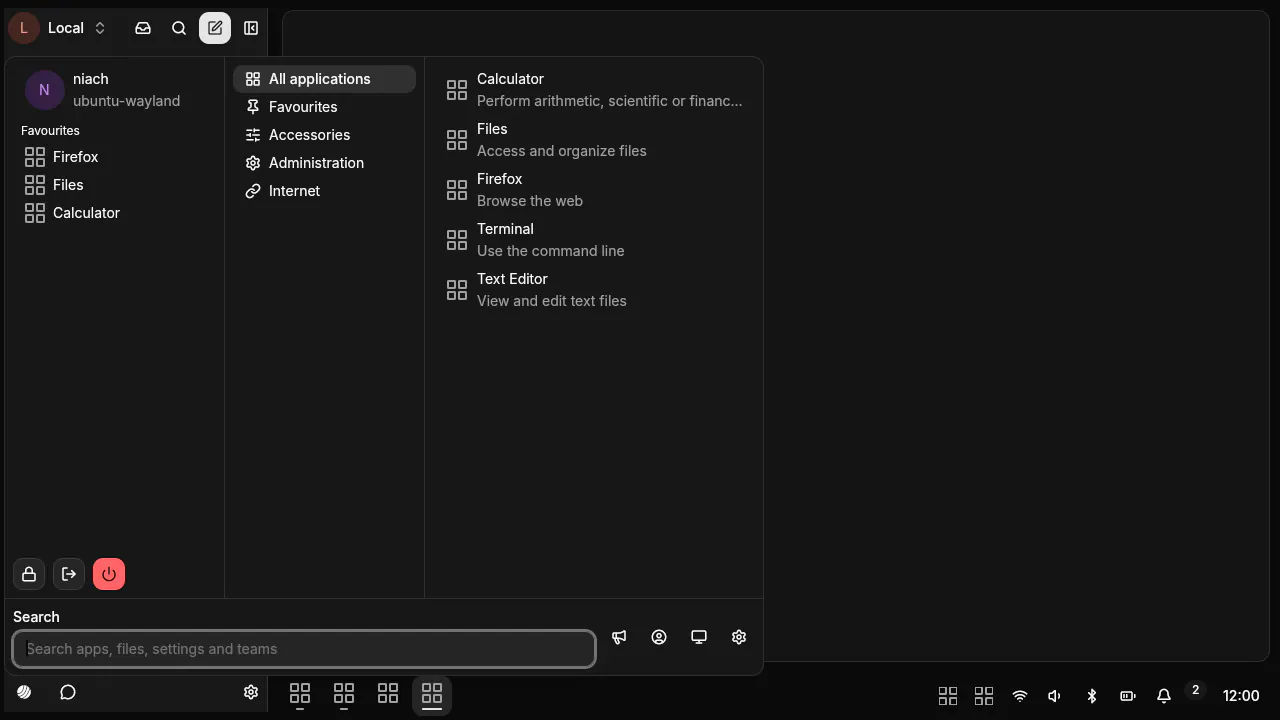
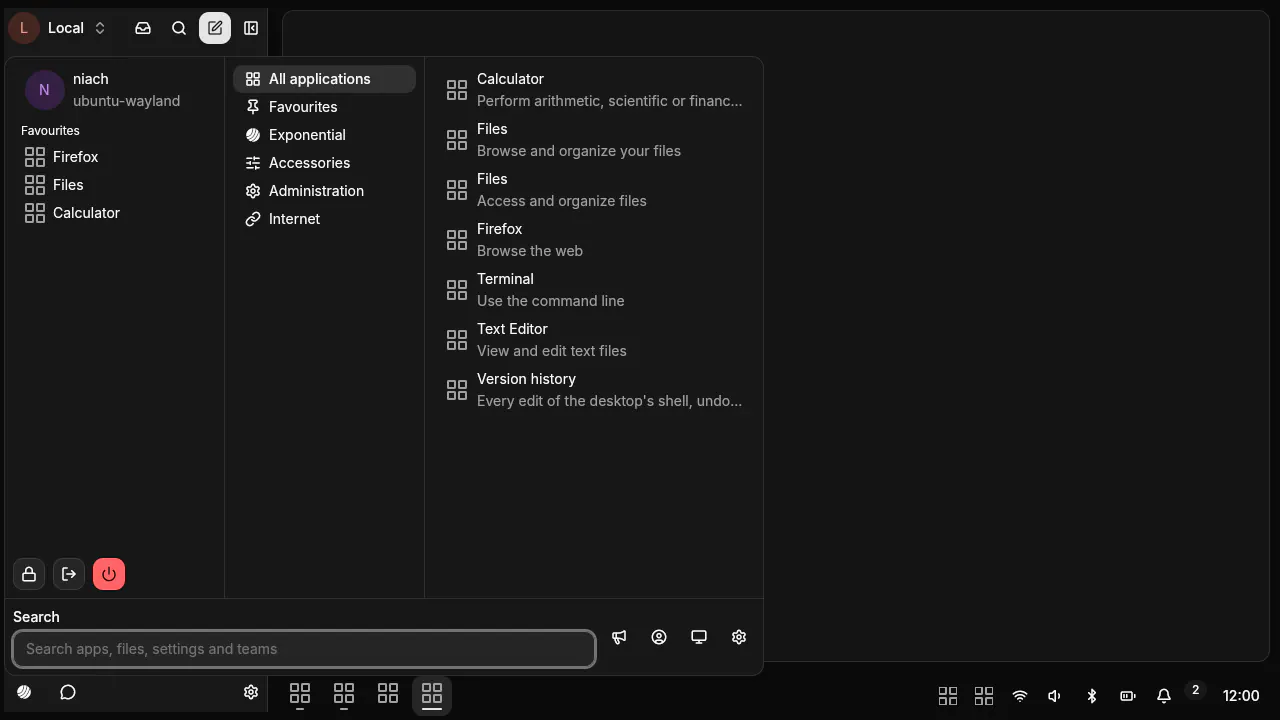
EDE-49/53: Expo and Scale overlays with live thumbnails per workspace, Version history as a start-menu app, Files (Nemo, else the default file manager)
expo.json (Ctrl+Alt+Up: one tile per workspace, the active one outlined, a
tile switches, a thumbnail focuses) and scale.json (Ctrl+Alt+Down: the active
workspace's windows with a title chip and a close badge); history.json (the
shell documents' commits from exponential-ui's log, Undo and Reset to
factory through ede.history). The start menu's own entries: Files
(at.exponential.files) and Version history (at.exponential.history, a
document rather than a process). /expo, /scale and /history feed them;
views ede-expo, ede-scale, ede-history with goldens; the start-menu golden
gains the two entries.

Changed region(s): [[0.3438, 0.2444, 0.5625, 0.5806], [0.1875, 0.1833, 0.2812, 0.3056], [0.375, 0.1833, 0.5312, 0.2139]]

diff --git a/apps/styleguide/src/entries/ede-panel.tsx b/apps/styleguide/src/entries/ede-panel.tsx
@@ -6,6 +6,9 @@ import sidebar from "../../../ede/ui/sidebar.json"
 import taskbar from "../../../ede/ui/taskbar.json"
 import startMenu from "../../../ede/ui/start-menu.json"
 import chat from "../../../ede/ui/chat.json"
+import expo from "../../../ede/ui/expo.json"
+import scale from "../../../ede/ui/scale.json"
+import history from "../../../ede/ui/history.json"
 import switcher from "../../../ede/ui/switcher.json"
 import osd from "../../../ede/ui/osd.json"
 import notifications from "../../../ede/ui/notifications.json"
@@ -27,6 +30,9 @@ const SIDEBAR = sidebar as unknown as { root: NestedNode }
 const TASKBAR = taskbar as unknown as { root: NestedNode; data: Record<string, unknown> }
 const START_MENU = startMenu as unknown as { root: NestedNode }
 const CHAT = chat as unknown as { root: NestedNode }
+const EXPO = expo as unknown as { root: NestedNode }
+const SCALE = scale as unknown as { root: NestedNode }
+const HISTORY = history as unknown as { root: NestedNode }
 const SWITCHER = switcher as unknown as { root: NestedNode }
 const OSD = osd as unknown as { root: NestedNode }
 const NOTIFICATIONS = notifications as unknown as { root: NestedNode }
@@ -84,6 +90,16 @@ const SAMPLE_SHELL = {
   chat: { open: false },
   altTab: { open: false, selected: 0, order: [] },
 }
+const SAMPLE_EXPO = { workspaces: [
+  { index: 0, label: `Workspace 1`, active: true, count: 3, countText: `3`, windows: [{ id: `w1`, title: `Firefox`, focused: false, thumbnail: `` }, { id: `w2`, title: `Terminal`, focused: true, thumbnail: `` }, { id: `w3`, title: `Files`, focused: false, thumbnail: `` }] },
+  { index: 1, label: `Workspace 2`, active: false, count: 1, countText: `1`, windows: [{ id: `w4`, title: `Exponential — Firefox`, focused: false, thumbnail: `` }] },
+] }
+const SAMPLE_SCALE = { label: `Workspace 1`, windows: SAMPLE_EXPO.workspaces[0].windows }
+const SAMPLE_HISTORY = { entries: [
+  { id: `a1b2c3d4e5`, short: `a1b2c3d`, summary: `Edit taskbar.json`, at: `2026-11-06 11:58` },
+  { id: `f6a7b8c9d0`, short: `f6a7b8c`, summary: `Edit sidebar.json`, at: `2026-11-06 11:40` },
+  { id: `0f1e2d3c4b`, short: `0f1e2d3`, summary: `Factory sidebar.json`, at: `2026-11-06 09:00` },
+] }
 const SAMPLE_SWITCHER = { windows: [
   { id: `w1`, title: `Firefox`, selected: false, thumbnail: `` },
   { id: `w2`, title: `Terminal`, selected: true, thumbnail: `` },
@@ -95,7 +111,7 @@ export const entry: StyleguideEntry = {
   section: `special`,
   owner: `EDE-42`,
   title: `Exponential Desktop shell`,
-  blurb: `The desktop environment's factory shell documents, the IDE look (#EDE-42): the ground (apps/ede/ui/ground.json: the IDE's gradient and the rounded panel the focused window sits on), the sidebar (sidebar.json: the desktop/team switcher, inbox, search, new, the nav Needs you + Chats, the Pinned / Workspaces / Active sections, the Exponential start button and the chat button bottom-left; 272 px, or the 56 px icon rail), Mint's taskbar (taskbar.json: icon-only grouped buttons with pins, hover previews and a context menu, the applets, the bell and the clock at the right), the start menu (start-menu.json: the person and the favourites with lock / log out / power, the categories, the app rows, the search box), the chat (chat.json: the Assistant's composer), the Alt+Tab switcher (switcher.json, an on-demand overlay with live thumbnails), the OSD (osd.json, the media keys' level), the toasts of the shell's own notification server (notifications.json), the bell's notification centre (notification-center.json), a tray item's dbusmenu (tray-menu.json) and the settings surface (settings.json, a page per domain over exponential-services). Agents and people edit these files; exponential-ui validates, commits and rolls back (packages/ede). eDE-specific, not genUI: no new component, the core catalog only.`,
+  blurb: `The desktop environment's factory shell documents, the IDE look (#EDE-42): the ground (apps/ede/ui/ground.json: the IDE's gradient and the rounded panel the focused window sits on), the sidebar (sidebar.json: the desktop/team switcher, inbox, search, new, the nav Needs you + Chats, the Pinned / Workspaces / Active sections, the Exponential start button and the chat button bottom-left; 272 px, or the 56 px icon rail), Mint's taskbar (taskbar.json: icon-only grouped buttons with pins, hover previews and a context menu, the applets, the bell and the clock at the right), the start menu (start-menu.json: the person and the favourites with lock / log out / power, the categories, the app rows, the search box), the chat (chat.json: the Assistant's composer), Expo and Scale (expo.json, scale.json: the workspaces and the active workspace's windows as live thumbnails), the version history (history.json: the shell documents' edits with Undo and Reset to factory), the Alt+Tab switcher (switcher.json, an on-demand overlay with live thumbnails), the OSD (osd.json, the media keys' level), the toasts of the shell's own notification server (notifications.json), the bell's notification centre (notification-center.json), a tray item's dbusmenu (tray-menu.json) and the settings surface (settings.json, a page per domain over exponential-services). Agents and people edit these files; exponential-ui validates, commits and rolls back (packages/ede). eDE-specific, not genUI: no new component, the core catalog only.`,
   status: {
     web: {
       state: `ok`,
@@ -133,6 +149,18 @@ export const entry: StyleguideEntry = {
       <span className="text-xs text-muted-foreground">chat.json · the chat button's surface</span>
       <div style={{ width: 720 }}>
         <ExponentialUiTree id="ede-chat" node={CHAT.root} data={{ chat: { draft: `` } }} formFactor="wide" />
+      </div>
+      <span className="text-xs text-muted-foreground">expo.json · Ctrl+Alt+Up, the workspaces with their windows</span>
+      <div style={{ width: 1040 }}>
+        <ExponentialUiTree id="ede-expo" node={EXPO.root} data={{ expo: SAMPLE_EXPO }} formFactor="wide" />
+      </div>
+      <span className="text-xs text-muted-foreground">scale.json · Ctrl+Alt+Down, the active workspace's windows</span>
+      <div style={{ width: 1040 }}>
+        <ExponentialUiTree id="ede-scale" node={SCALE.root} data={{ scale: SAMPLE_SCALE }} formFactor="wide" />
+      </div>
+      <span className="text-xs text-muted-foreground">history.json · the shell documents' edits, with Undo and Reset</span>
+      <div style={{ width: 720 }}>
+        <ExponentialUiTree id="ede-history" node={HISTORY.root} data={{ history: SAMPLE_HISTORY }} formFactor="wide" />
       </div>
       <span className="text-xs text-muted-foreground">switcher.json · Alt+Tab, an on-demand overlay</span>
       <div style={{ width: 760 }}>

diff --git a/apps/desktop/crates/ede-shell/src/main.rs b/apps/desktop/crates/ede-shell/src/main.rs
@@ -275,7 +275,17 @@ impl HostPlugin for Host {
                 if let Some(command) = args.get("command").and_then(Value::as_str) {
                     system::launch(command);
                 } else if let Some(app) = args.get("app").and_then(Value::as_str) {
-                    launch_app(&self.shell.borrow(), app);
+                    if app.trim_end_matches(".desktop") == HISTORY_APP {
+                        // The shell's own Version history (#EDE-53): a document, not a process.
+                        let s = self.shell.clone();
+                        cx.defer(move |cx| {
+                            history_refresh(&s);
+                            open_on_demand(&s, "history", cx);
+                            refresh(&s, cx);
+                        });
+                    } else {
+                        launch_app(&self.shell.borrow(), app);
+                    }
                 }
                 cx.defer(move |cx| {
                     close(&shell, "menu", cx);
@@ -286,6 +296,17 @@ impl HostPlugin for Host {
             "ede.focus" => {
                 if let Some(id) = window_arg(args) {
                     with_ede(&self.shell, |ede| ede.focus(id));
+                }
+                if event.surface_id == "expo" || event.surface_id == "scale" {
+                    let doc = event.surface_id.clone();
+                    cx.defer(move |cx| overlay_close(&shell, &doc, cx));
+                }
+            }
+            "ede.history" => {
+                match args.get("action").and_then(Value::as_str) {
+                    Some("undo") => system::launch("exponential-ui undo"),
+                    Some("reset") => system::launch("exponential-ui reset"),
+                    other => tracing::warn!(action = ?other, "unknown history action"),
                 }
             }
             "ede.close" => {
@@ -512,6 +533,9 @@ impl HostPlugin for Host {
                 if let Some(index) = args.get("index").and_then(Value::as_u64) {
                     with_ede(&self.shell, |ede| ede.switch_workspace(index as usize));
                 }
+                if event.surface_id == "expo" {
+                    cx.defer(move |cx| overlay_close(&shell, "expo", cx));
+                }
             }
             "ede.sidebar" => {
                 if let Some(section) = args.get("section").and_then(Value::as_str).map(String::from) {
@@ -552,6 +576,63 @@ impl HostPlugin for Host {
     fn media_options(&self) -> MediaOptions {
         MediaOptions { schemes: Some(vec!["https".into(), "http".into(), "data".into(), "file".into()]), ..Default::default() }
     }
+}
+
+/// The start menu's own entries (#EDE-53): Files (Nemo, else the default
+/// file manager), Version history (the shell's edit history), and the
+/// Exponential app when it is installed (it has its own desktop entry).
+const FILES_APP: &str = "at.exponential.files";
+const HISTORY_APP: &str = "at.exponential.history";
+
+fn builtin_apps(demo: bool) -> Vec<apps::App> {
+    let files_exec = if demo || which("nemo") { "nemo".to_string() } else { "xdg-open .".to_string() };
+    let files_icon = if demo { None } else { apps::icon_file("system-file-manager").or_else(|| apps::icon_file("folder")) };
+    vec![
+        apps::App { id: format!("{FILES_APP}.desktop"), name: "Files".into(), comment: "Browse and organize your files".into(), exec: files_exec, icon: files_icon, keywords: "files nemo file manager folders".into(), categories: vec!["Utility".into(), "System".into()] },
+        apps::App { id: format!("{HISTORY_APP}.desktop"), name: "Version history".into(), comment: "Every edit of the desktop's shell, undo any".into(), exec: String::new(), icon: None, keywords: "version history git undo shell edits".into(), categories: vec!["Utility".into()] },
+    ]
+}
+
+fn which(bin: &str) -> bool {
+    std::env::var_os("PATH").map(|p| std::env::split_paths(&p).any(|d| d.join(bin).is_file())).unwrap_or(false)
+}
+
+/// `/history`: the shell documents' commits, newest first (#EDE-53).
+fn history_refresh(shell: &SharedShell) {
+    if std::env::var_os("EDE_SHELL_DEMO").is_some_and(|v| !v.is_empty() && v != "0") {
+        // The goldens: fixed sample edits instead of the scratch copy's commits.
+        let entries = json!([
+            {"id": "a1b2c3d4e5f6", "short": "a1b2c3d", "summary": "Edit taskbar.json", "at": "2026-11-06 11:58"},
+            {"id": "f6a7b8c9d0e1", "short": "f6a7b8c", "summary": "Edit sidebar.json", "at": "2026-11-06 11:40"},
+            {"id": "0f1e2d3c4b5a", "short": "0f1e2d3", "summary": "Factory sidebar.json", "at": "2026-11-06 09:00"}
+        ]);
+        shell.borrow_mut().feed.set("/history", json!({"entries": entries}));
+        return;
+    }
+    let entries: Vec<Value> = {
+        let s = shell.borrow();
+        let ui = s.ui.lock().unwrap_or_else(|p| p.into_inner());
+        ui.log(60).unwrap_or_default().into_iter().map(|c| json!({"id": c.id, "short": c.id.chars().take(7).collect::<String>(), "summary": c.summary, "at": clock::stamp(c.time)})).collect()
+    };
+    shell.borrow_mut().feed.set("/history", json!({"entries": entries}));
+}
+
+/// `/expo` and `/scale`: the workspaces with their windows and the active
+/// workspace's windows, each with its thumbnail (#EDE-49).
+fn overlays_refresh(shell: &SharedShell) {
+    let mut s = shell.borrow_mut();
+    let thumb = |s: &Shell, id: &str| s.thumbnails.get(id).cloned().unwrap_or_default();
+    let workspaces: Vec<Value> = uicore_model::workspace_badges(&s.model)
+        .into_iter()
+        .map(|b| {
+            let windows: Vec<Value> = s.model.windows.iter().filter(|w| w.workspace == b.index).map(|w| json!({"id": w.id, "title": w.title, "focused": w.focused, "thumbnail": thumb(&s, &w.id)})).collect();
+            json!({"index": b.index, "label": format!("Workspace {}", b.index + 1), "active": b.active, "count": b.count, "countText": if b.count == 0 { String::new() } else { b.count.to_string() }, "windows": windows})
+        })
+        .collect();
+    let active = s.model.workspaces.active;
+    let scale_windows: Vec<Value> = s.model.windows.iter().filter(|w| w.workspace == active).map(|w| json!({"id": w.id, "title": w.title, "focused": w.focused, "thumbnail": thumb(&s, &w.id)})).collect();
+    s.feed.set("/expo", json!({"workspaces": workspaces}));
+    s.feed.set("/scale", json!({"label": format!("Workspace {}", active + 1), "windows": scale_windows}));
 }
 
 /// Launches the desktop entry `app` (its id, with or without `.desktop`).
@@ -801,6 +882,7 @@ fn toggle_popup(shell: &SharedShell, name: &str, cx: &mut App) {
 fn apply_change(shell: &SharedShell, change: Change, cx: &mut App) {
     match change {
         Change::Applied { name, .. } => {
+            history_refresh(shell);
             let Some(doc) = document(&shell.borrow(), &name) else { return };
             let open = shell.borrow().surfaces.is_open(&name);
             match (open, &doc.surface) {
@@ -868,6 +950,7 @@ fn windows_changed(shell: &SharedShell, list: Vec<ede_protocol::WindowInfo>, wor
         s.windows = list;
     }
     previews_refresh(shell);
+    overlays_refresh(shell);
     model_changed(shell, cx);
 }
 
@@ -1037,17 +1120,22 @@ fn hotkey(shell: &SharedShell, name: &str, cx: &mut App) {
 /// window's thumbnail, toggled by its hotkey.
 fn overlay_toggle(shell: &SharedShell, name: &str, cx: &mut App) {
     if shell.borrow().surfaces.is_open(name) {
-        close(shell, name, cx);
-        thumbnails_retarget(shell);
+        overlay_close(shell, name, cx);
         return;
     }
     if document(&shell.borrow(), name).is_none() {
         tracing::info!(document = name, "no overlay document");
         return;
     }
+    overlays_refresh(shell);
     open_on_demand(shell, name, cx);
     thumbnails_retarget(shell);
     refresh(shell, cx);
+}
+
+fn overlay_close(shell: &SharedShell, name: &str, cx: &mut App) {
+    close(shell, name, cx);
+    thumbnails_retarget(shell);
 }
 
 /// Alt+Tab: open the switcher on the first step, move the selection after.
@@ -1144,6 +1232,7 @@ fn thumbnail_arrived(shell: &SharedShell, id: String, url: String) {
     shell.borrow_mut().thumbnails.insert(id, url);
     switcher_refresh(shell);
     previews_refresh(shell);
+    overlays_refresh(shell);
     let thumbs: Value = {
         let s = shell.borrow();
         json!(s.thumbnails)
@@ -1372,7 +1461,9 @@ fn main() {
             }
         })
         .expect("the events thread");
-    let installed = if demo { apps::demo() } else { apps::scan() };
+    let mut installed = if demo { apps::demo() } else { apps::scan() };
+    installed.extend(builtin_apps(demo));
+    installed.sort_by(|a, b| a.name.to_lowercase().cmp(&b.name.to_lowercase()));
     tracing::info!(apps = installed.len(), demo, "desktop entries");
     // Thumbnails from the capture thread while the switcher or the previews are open.
     let (thumbs_tx, thumbs_rx) = mpsc::channel::<(String, String)>();
@@ -1509,6 +1600,8 @@ fn main() {
             _watcher: watcher,
         }));
         *shell_cell.borrow_mut() = Some(shell.clone());
+        history_refresh(&shell);
+        overlays_refresh(&shell);
         model_changed(&shell, cx);
         if !demo {
             // The outputs first: a stretched surface takes the output's size.

diff --git a/apps/desktop/crates/ui/src/styleguide/entries/ede_panel.rs b/apps/desktop/crates/ui/src/styleguide/entries/ede_panel.rs
@@ -20,6 +20,9 @@ const SIDEBAR: &str = include_str!("../../../../../../ede/ui/sidebar.json");
 const TASKBAR: &str = include_str!("../../../../../../ede/ui/taskbar.json");
 const START_MENU: &str = include_str!("../../../../../../ede/ui/start-menu.json");
 const CHAT: &str = include_str!("../../../../../../ede/ui/chat.json");
+const EXPO: &str = include_str!("../../../../../../ede/ui/expo.json");
+const SCALE: &str = include_str!("../../../../../../ede/ui/scale.json");
+const HISTORY: &str = include_str!("../../../../../../ede/ui/history.json");
 const SWITCHER: &str = include_str!("../../../../../../ede/ui/switcher.json");
 const OSD: &str = include_str!("../../../../../../ede/ui/osd.json");
 const NOTIFICATIONS: &str = include_str!("../../../../../../ede/ui/notifications.json");
@@ -73,6 +76,19 @@ pub(crate) fn render(window: &mut Window, cx: &mut App) -> Div {
     }
     let (start_menu, _) = document(START_MENU);
     let (chat, _) = document(CHAT);
+    let (expo, _) = document(EXPO);
+    let (scale, _) = document(SCALE);
+    let (history, _) = document(HISTORY);
+    let expo_data = json!({"expo": {"workspaces": [
+        {"index": 0, "label": "Workspace 1", "active": true, "count": 3, "countText": "3", "windows": [{"id": "w1", "title": "Firefox", "focused": false, "thumbnail": ""}, {"id": "w2", "title": "Terminal", "focused": true, "thumbnail": ""}, {"id": "w3", "title": "Files", "focused": false, "thumbnail": ""}]},
+        {"index": 1, "label": "Workspace 2", "active": false, "count": 1, "countText": "1", "windows": [{"id": "w4", "title": "Exponential — Firefox", "focused": false, "thumbnail": ""}]}
+    ]}});
+    let scale_data = json!({"scale": {"label": "Workspace 1", "windows": expo_data["expo"]["workspaces"][0]["windows"]}});
+    let history_data = json!({"history": {"entries": [
+        {"id": "a1b2c3d4e5", "short": "a1b2c3d", "summary": "Edit taskbar.json", "at": "2026-11-06 11:58"},
+        {"id": "f6a7b8c9d0", "short": "f6a7b8c", "summary": "Edit sidebar.json", "at": "2026-11-06 11:40"},
+        {"id": "0f1e2d3c4b", "short": "0f1e2d3", "summary": "Factory sidebar.json", "at": "2026-11-06 09:00"}
+    ]}});
     let (switcher, _) = document(SWITCHER);
     let windows = json!({"switcher": {"windows": [
         {"id": "w1", "title": "Firefox", "selected": false, "thumbnail": ""},
@@ -124,6 +140,9 @@ pub(crate) fn render(window: &mut Window, cx: &mut App) -> Div {
         .child(div().w(px(1008.0)).child(styleguide_surface_in("sg-ede-taskbar", taskbar, None, Some(taskbar_data), window, cx)))
         .child(div().w(px(760.0)).child(styleguide_surface_in("sg-ede-start-menu", start_menu, None, Some(json!({"user": {"name": "Danny", "host": "ubuntu-wayland"}, "shell": sample_shell(false)})), window, cx)))
         .child(div().w(px(720.0)).child(styleguide_surface_in("sg-ede-chat", chat, None, Some(json!({"chat": {"draft": ""}})), window, cx)))
+        .child(div().w(px(1040.0)).child(styleguide_surface_in("sg-ede-expo", expo, None, Some(expo_data), window, cx)))
+        .child(div().w(px(1040.0)).child(styleguide_surface_in("sg-ede-scale", scale, None, Some(scale_data), window, cx)))
+        .child(div().w(px(720.0)).child(styleguide_surface_in("sg-ede-history", history, None, Some(history_data), window, cx)))
         .child(div().w(px(760.0)).child(styleguide_surface_in("sg-ede-switcher", switcher, None, Some(windows), window, cx)))
         .child(div().w(px(280.0)).child(styleguide_surface_in("sg-ede-osd", osd, None, Some(level), window, cx)))
         .child(div().w(px(380.0)).child(styleguide_surface_in("sg-ede-notifications", notifications, None, Some(sample_notifications.clone()), window, cx)))

diff --git a/apps/desktop/crates/uicore-data/src/clock.rs b/apps/desktop/crates/uicore-data/src/clock.rs
@@ -20,6 +20,17 @@ pub fn date() -> String {
     format!("{:04}-{:02}-{:02}", tm.tm_year + 1900, tm.tm_mon + 1, tm.tm_mday)
 }
 
+/// `yyyy-mm-dd HH:MM` local for a unix time (a history entry).
+pub fn stamp(epoch: i64) -> String {
+    let mut tm: libc::tm = unsafe { std::mem::zeroed() };
+    let t: libc::time_t = epoch as libc::time_t;
+    // SAFETY: localtime_r writes into the tm we own.
+    unsafe {
+        libc::localtime_r(&t, &mut tm);
+    }
+    format!("{:04}-{:02}-{:02} {:02}:{:02}", tm.tm_year + 1900, tm.tm_mon + 1, tm.tm_mday, tm.tm_hour, tm.tm_min)
+}
+
 fn local() -> libc::tm {
     // SAFETY: time() with a null pointer only returns; localtime_r writes
     // into the tm we own.

diff --git a/apps/desktop/crates/uicore-docs/src/lib.rs b/apps/desktop/crates/uicore-docs/src/lib.rs
@@ -21,7 +21,7 @@ macro_rules! docs {
     };
 }
 
-docs!["chat", "ground", "notification-center", "notifications", "osd", "settings", "sidebar", "start-menu", "switcher", "taskbar", "tray-menu"];
+docs!["chat", "expo", "ground", "history", "notification-center", "notifications", "osd", "scale", "settings", "sidebar", "start-menu", "switcher", "taskbar", "tray-menu"];
 
 impl Doc {
     /// The parsed document (the sources are checked by the tests).

diff --git a/apps/ede/README.md b/apps/ede/README.md
@@ -70,7 +70,9 @@ rail's width), `ede.pin {app}` / `ede.unpin {app}` (kept in
 click: launch, focus, minimize, or the previews of a group),
 `ede.taskbar_scroll {app, direction}`, `ede.previews {app|null}`,
 `ede.start_menu {open?, query?, category?}`, `ede.chat` (toggle),
-`ede.workspace {index}`, `ede.sidebar {section}` (fold a section).
+`ede.workspace {index}`, `ede.sidebar {section}` (fold a section),
+`ede.history {action: undo|reset}` (the shell documents' history);
+`/expo`, `/scale` and `/history` feed the overlays and the history.
 Icons resolve by concept from `packages/icons` (the IDE's Lucide files and
 fonts are embedded); app icons come from the installed icon themes as
 `file:` pictures. Factory documents live in `apps/ede/ui/*.json` (the IDE
@@ -83,9 +85,14 @@ chat button bottom-left), `taskbar.json` (bottom, 48 px exclusive zone to the
 right of the sidebar: Mint's grouped window list with pins, hover previews
 and a context menu, the applets, the tray, the bell and the clock),
 `start-menu.json` (the start button's popup: Mint's three columns and the
-search box), `chat.json` (the Assistant's composer, on demand),
-`switcher.json` and `osd.json` (`onDemand` overlays the shell opens on a
-hotkey and closes again), `notifications.json` (the toasts, top-right, on
+search box; its own entries are Files (Nemo, else the default file manager),
+Version history and the Exponential app when installed, #EDE-53), `chat.json`
+(the Assistant's composer, on demand), `history.json` (Version history: the
+shell documents' commits with Undo and Reset to factory, on demand),
+`switcher.json`, `expo.json` and `scale.json` (`onDemand` overlays the shell
+opens on a hotkey and closes again: Alt+Tab, Ctrl+Alt+Up with one tile per
+workspace, Ctrl+Alt+Down with the active workspace's windows, each with live
+thumbnails, #EDE-49), `osd.json`, `notifications.json` (the toasts, top-right, on
 demand), `notification-center.json` (the bell's popup) and `tray-menu.json`
 (a tray item's menu as the tray's popup). A click outside an open popup, or
 Escape in it, closes it. A layer document's root is opaque (`$color.background`
